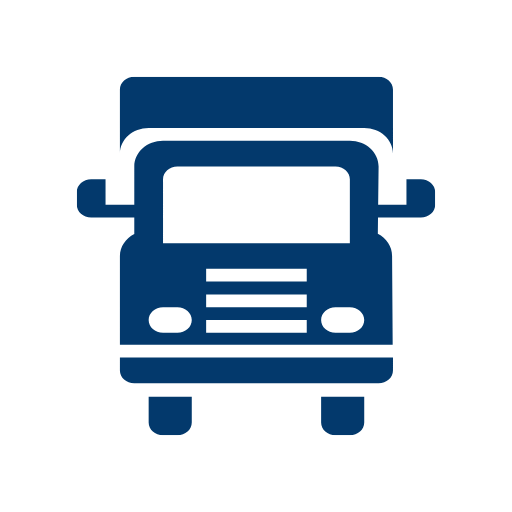
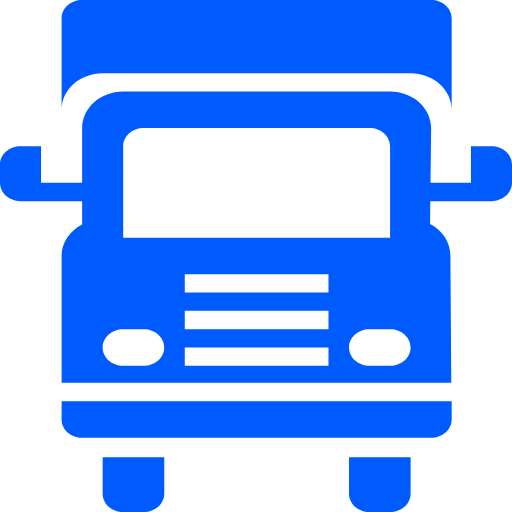
Fixed and learned some tailwind ...

diff --git a/tailwind.config.ts b/tailwind.config.ts
@@ -17,15 +17,146 @@ module.exports = {
         '2xl': '1400px',
       },
     },
+    backgroundColor: ({ theme }: { theme: any }) => ({
+      ...theme('colors'),
+      DEFAULT: 'hsl(var(--background-default) / <alpha-value>)',
+      '200': 'hsl(var(--background-200) / <alpha-value>)',
+      alternative: {
+        DEFAULT: 'hsl(var(--background-alternative-default) / <alpha-value>)',
+        '200': 'hsl(var(--background-alternative-200) / <alpha-value>)',
+      },
+      selection: 'hsl(var(--background-selection) / <alpha-value>)',
+      control: 'hsl(var(--background-control) / <alpha-value>)',
+      surface: {
+        '75': 'hsl(var(--background-surface-75) / <alpha-value>)',
+        '100': 'hsl(var(--background-surface-100) / <alpha-value>)',
+        '200': 'hsl(var(--background-surface-200) / <alpha-value>)',
+        '300': 'hsl(var(--background-surface-300) / <alpha-value>)',
+        '400': 'hsl(var(--background-surface-400) / <alpha-value>)',
+      },
+      foreground: {
+        DEFAULT: 'hsl(var(--foreground-default) / <alpha-value>)',
+        light: 'hsl(var(--foreground-light) / <alpha-value>)',
+        lighter: 'hsl(var(--foreground-lighter) / <alpha-value>)',
+        muted: 'hsl(var(--foreground-muted) / <alpha-value>)',
+        contrast: 'hsl(var(--foreground-contrast) / <alpha-value>)',
+      },
+      overlay: {
+        DEFAULT: 'hsl(var(--background-overlay-default) / <alpha-value>)',
+        hover: 'hsl(var(--background-overlay-hover) / <alpha-value>)',
+      },
+      muted: 'hsl(var(--background-muted) / <alpha-value>)',
+      button: 'hsl(var(--background-button-default) / <alpha-value>)',
+      dialog: 'hsl(var(--background-dialog-default) / <alpha-value>)',
+      'dash-sidebar': 'hsl(var(--background-dash-sidebar) / <alpha-value>)',
+      'dash-canvas': 'hsl(var(--background-dash-canvas) / <alpha-value>)',
+    }),
+
+    borderColor: ({ theme }: { theme: any }) => ({
+      ...theme('colors'),
+      DEFAULT: 'hsl(var(--border-default) / <alpha-value>)',
+      muted: 'hsl(var(--border-muted) / <alpha-value>)',
+      secondary: 'hsl(var(--border-secondary) / <alpha-value>)',
+      overlay: 'hsl(var(--border-overlay) / <alpha-value>)',
+      control: 'hsl(var(--border-control) / <alpha-value>)',
+      alternative: 'hsl(var(--border-alternative) / <alpha-value>)',
+      strong: 'hsl(var(--border-strong) / <alpha-value>)',
+      stronger: 'hsl(var(--border-stronger) / <alpha-value>)',
+      button: {
+        DEFAULT: 'hsl(var(--border-button-default) / <alpha-value>)',
+        hover: 'hsl(var(--border-button-hover) / <alpha-value>)',
+      },
+    }),
+
+    textColor: ({ theme }: { theme: any }) => ({
+      ...theme('colors'),
+      foreground: {
+        DEFAULT: 'hsl(var(--foreground-default) / <alpha-value>)',
+        light: 'hsl(var(--foreground-light) / <alpha-value>)',
+        lighter: 'hsl(var(--foreground-lighter) / <alpha-value>)',
+        muted: 'hsl(var(--foreground-muted) / <alpha-value>)',
+        contrast: 'hsl(var(--foreground-contrast) / <alpha-value>)',
+      },
+    }),
     extend: {
       colors: {
+        border: {
+          DEFAULT: 'hsl(var(--border-default) / <alpha-value>)',
+          muted: 'hsl(var(--border-muted) / <alpha-value>)',
+          secondary: 'hsl(var(--border-secondary) / <alpha-value>)',
+          overlay: 'hsl(var(--border-overlay) / <alpha-value>)',
+          control: 'hsl(var(--border-control) / <alpha-value>)',
+          alternative: 'hsl(var(--border-alternative) / <alpha-value>)',
+          strong: 'hsl(var(--border-strong) / <alpha-value>)',
+          stronger: 'hsl(var(--border-stronger) / <alpha-value>)',
+          button: {
+            DEFAULT: 'hsl(var(--border-button-default) / <alpha-value>)',
+            hover: 'hsl(var(--border-button-hover) / <alpha-value>)',
+          },
+        },
+        // Brand colors
+        brand: {
+          DEFAULT: 'var(--brand-default) ',
+          button: 'hsl(var(--brand-button) / <alpha-value>)',
+          link: 'var(--brand-link)',
+          '200': 'var(--brand-200)',
+          '300': 'var(--brand-300)',
+          '400': 'var(--brand-400)',
+          '500': 'var(--brand-500)',
+          '600': 'var(--brand-600)',
+        },
+
+        // Other color variables
+        black: 'hsl(var(--colors-black) / <alpha-value>)',
+        white: 'hsl(var(--colors-white) / <alpha-value>)',
+        'gray-dark': {
+          '100': 'hsl(var(--colors-gray-dark-100) / <alpha-value>)',
+          '200': 'hsl(var(--colors-gray-dark-200) / <alpha-value>)',
+          // ...
+        },
+        'gray-light': {
+          '100': 'hsl(var(--colors-gray-light-100) / <alpha-value>)',
+          '200': 'hsl(var(--colors-gray-light-200) / <alpha-value>)',
+          // ...
+        },
+        'slate-dark': {
+          '100': 'hsl(var(--colors-slate-dark-100) / <alpha-value>)',
+          '200': 'hsl(var(--colors-slate-dark-200) / <alpha-value>)',
+          // ...
+        },
+        'slate-light': {
+          '100': 'hsl(var(--colors-slate-light-100) / <alpha-value>)',
+          '200': 'hsl(var(--colors-slate-light-200) / <alpha-value>)',
+          // ...
+        },
+        destructive: {
+          DEFAULT: 'hsl(var(--destructive-default) / <alpha-value>)',
+          '200': 'hsl(var(--destructive-200) / <alpha-value>)',
+          '300': 'hsl(var(--destructive-300) / <alpha-value>)',
+          '400': 'hsl(var(--destructive-400) / <alpha-value>)',
+          '500': 'hsl(var(--destructive-500) / <alpha-value>)',
+          '600': 'hsl(var(--destructive-600) / <alpha-value>)',
+        },
+        warning: {
+          DEFAULT: 'hsl(var(--warning-default) / <alpha-value>)',
+          '200': 'hsl(var(--warning-200) / <alpha-value>)',
+          '300': 'hsl(var(--warning-300) / <alpha-value>)',
+          '400': 'hsl(var(--warning-400) / <alpha-value>)',
+          '500': 'hsl(var(--warning-500) / <alpha-value>)',
+          '600': 'hsl(var(--warning-600) / <alpha-value>)',
+        },
+        _secondary: {
+          DEFAULT: 'hsl(var(--secondary-default) / <alpha-value>)',
+          '200': 'hsl(var(--secondary-200) / <alpha-value>)',
+          '400': 'hsl(var(--secondary-400) / <alpha-value>)',
+        },
         studio: 'hsl(var(--colors-gray-light-200))',
-        'brand-100': '#b3cde0',
-        'brand-200': '#6497b1',
-        'brand-300': '#005b96',
-        'brand-400': '#03396c',
-        'brand-500': '#011f4b',
-        border: 'hsl(var(--border))',
+        // 'brand-100': '#b3cde0',
+        // 'brand-200': '#6497b1',
+        // 'brand-300': '#005b96',
+        // 'brand-400': '#03396c',
+        // 'brand-500': '#011f4b',
+        // border: 'hsl(var(--border))',
         input: 'hsl(var(--input))',
         ring: 'hsl(var(--ring))',
         background: 'hsl(var(--background))',
@@ -37,14 +168,6 @@ module.exports = {
         secondary: {
           DEFAULT: 'hsl(var(--secondary))',
           foreground: 'hsl(var(--secondary-foreground))',
-        },
-        destructive: {
-          DEFAULT: 'hsl(var(--destructive))',
-          foreground: 'hsl(var(--destructive-foreground))',
-        },
-        muted: {
-          DEFAULT: 'hsl(var(--muted))',
-          foreground: 'hsl(var(--muted-foreground))',
         },
         accent: {
           DEFAULT: 'hsl(var(--accent))',

diff --git a/src/app/styles/globals.css b/src/app/styles/globals.css
@@ -77,6 +77,75 @@ body,
   margin: 0;
 }
 
+.form-group .form-text,
+.Form .form-text {
+  @apply text-foreground-lighter;
+}
+
+.form-group input,
+.form-group input[type='text'],
+.form-group input[type='email'],
+.form-group input[type='url'],
+.form-group input[type='password'],
+.form-group input[type='number'],
+.form-group input[type='date'],
+.form-group input[type='datetime-local'],
+.form-group input[type='month'],
+.form-group input[type='search'],
+.form-group input[type='tel'],
+.form-group input[type='time'],
+.form-group input[type='week'],
+.form-group input[multiple],
+.form-group textarea,
+.form-group select,
+input.form-control,
+.form-control input,
+.form-control textarea {
+  @apply block;
+  @apply box-border;
+  @apply rounded-md;
+  @apply shadow-sm;
+  @apply transition-all;
+  @apply text-foreground;
+  @apply border;
+  @apply focus:shadow-md;
+
+  @apply focus:border-stronger;
+  @apply focus:ring-border-overlay;
+
+  @apply bg-studio;
+  @apply border-border-strong border;
+
+  @apply outline-none;
+  @apply focus:ring-2 focus:ring-current;
+}
+
+.form-group input,
+.form-group select,
+.form-group textarea {
+  @apply px-4 py-2;
+}
+
+.form-group input:focus,
+.form-group input[type='text']:focus,
+.form-group input[type='email']:focus,
+.form-group input[type='url']:focus,
+.form-group input[type='password']:focus,
+.form-group input[type='number']:focus,
+.form-group input[type='date']:focus,
+.form-group input[type='datetime-local']:focus,
+.form-group input[type='month']:focus,
+.form-group input[type='search']:focus,
+.form-group input[type='tel']:focus,
+.form-group input[type='time']:focus,
+.form-group input[type='week']:focus,
+.form-group input[multiple]:focus,
+.form-group textarea:focus,
+.form-group select:focus,
+.form-group input:focus .form-control:focus {
+  box-shadow: 0 0 0 2px rgba(62, 207, 142, 0.1);
+}
+
 @layer base {
   * {
     @apply border-border;

diff --git a/src/app/styles/ui.css b/src/app/styles/ui.css
@@ -140,14 +140,14 @@
   --secondary-default: 247.8deg 100% 70%;
   --secondary-400: 248.3deg 54.5% 25.9%;
   --secondary-200: 248deg 53.6% 11%;
-  --brand-link: 153.4deg 100% 36.7%;
+  --brand-link: #004de2;
   --brand-button: 151.8deg 47.1% 40.8%;
-  --brand-default: 152.9deg 60% 52.9%;
-  --brand-600: 156.5deg 86.5% 26.1%;
-  --brand-500: 155.3deg 78.4% 40%;
-  --brand-400: 151.3deg 66.9% 66.9%;
-  --brand-300: 147.5deg 72% 80.4%;
-  --brand-200: 147.6deg 72.5% 90%;
+  --brand-default: #005bff;
+  --brand-600: #0047b0;
+  --brand-500: #004de2;
+  --brand-400: #005bff;
+  --brand-300: #0076ff;
+  --brand-200: #009fff;
   --warning-default: 38.9deg 100% 57.1%;
   --warning-600: 30.3deg 80.3% 47.8%;
   --warning-500: 36.3deg 85.7% 67.1%;

diff --git a/src/app/layout.tsx b/src/app/layout.tsx
@@ -50,6 +50,14 @@ export default function RootLayout({
 }>) {
   return (
     <html lang="fr">
+      <head>
+        <link rel="icon" type="image/png" href="/favicon-96x96.png" sizes="96x96" />
+        <link rel="icon" type="image/svg+xml" href="/favicon.svg" />
+        <link rel="shortcut icon" href="/favicon.ico" />
+        <link rel="apple-touch-icon" sizes="180x180" href="/apple-touch-icon.png" />
+        <meta name="apple-mobile-web-app-title" content="Gérico" />
+        <link rel="manifest" href="/site.webmanifest" />
+      </head>
       <body className={`${inter.className}  antialiased`}>
         <SWRLayout>{children}</SWRLayout>
         <Toaster richColors position="top-center" />
